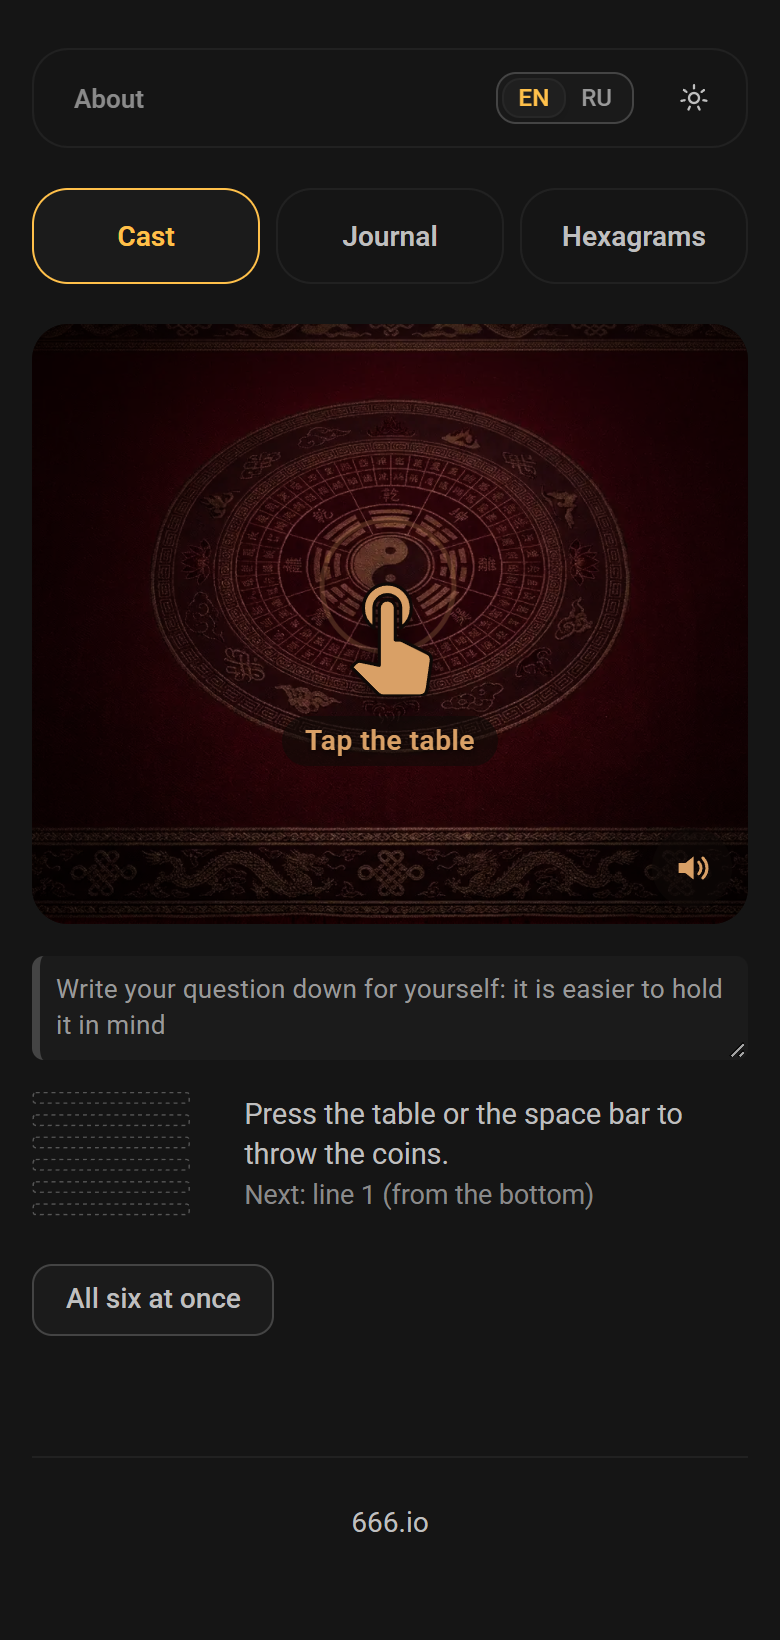
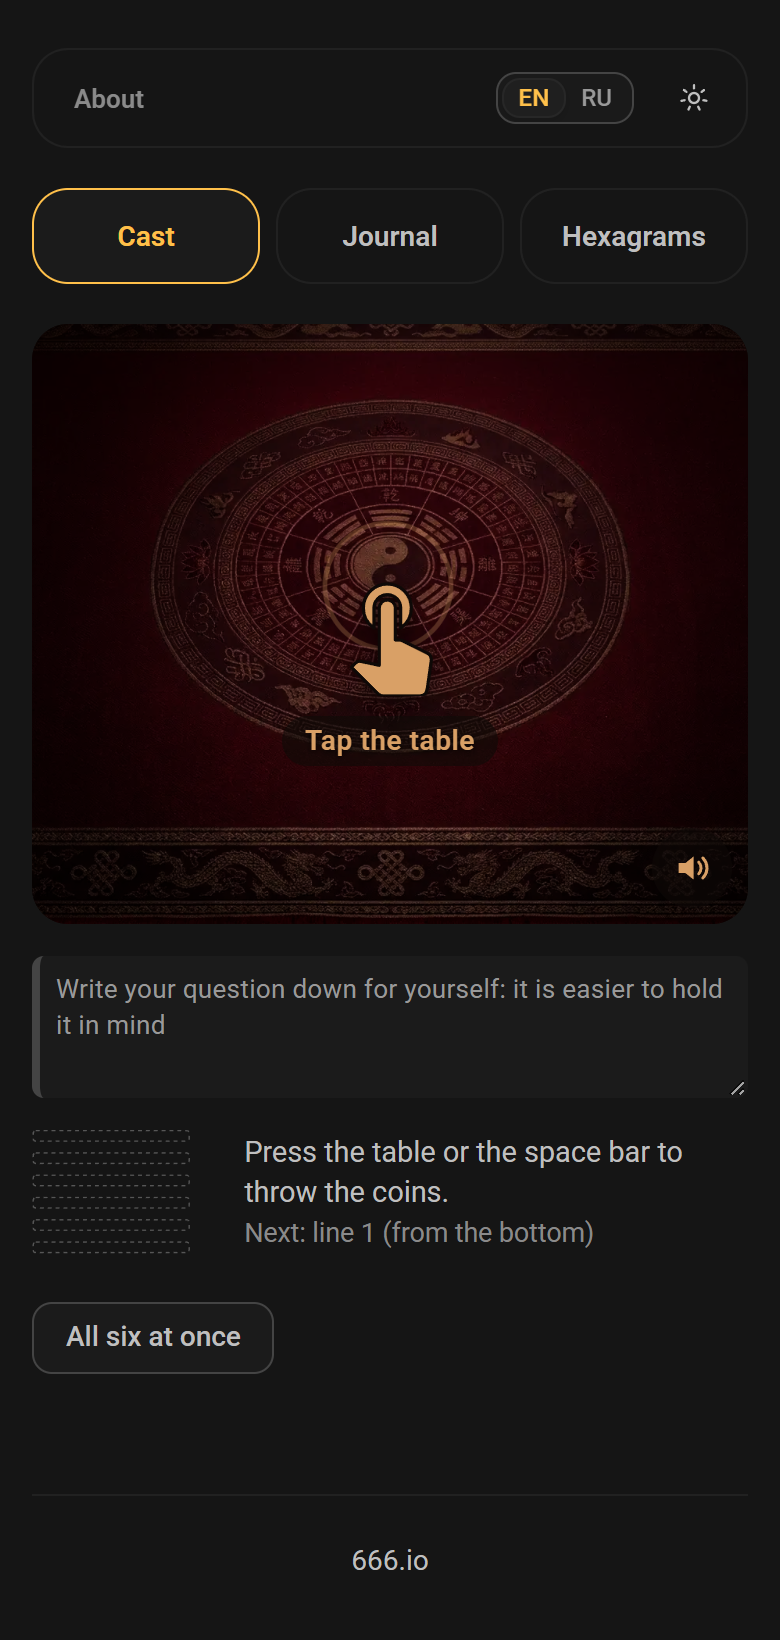
Fix the cast and the table drifting apart; warm up the sound; coins 256 px
A press that came while the table's scene was still loading counted in the
cast but was lost on the table (toss resolved at once without a stage), so
the table later showed five columns, and the glow, which waits for the
sixth throw of the stage, never ran. Now a throw waits for the stage, and
the application tells the stage the number of the throw instead of the
stage counting for itself.

The sounds are fetched and decoded when the table appears (an offline
context needs no press), and the audio is woken by the first press
anywhere on the page, with a silent beat, so nothing loads while the coins
fly. The coin faces are 256 px (128 was too greedy); the question field is
three rows tall, as Firefox and Yandex showed a scrollbar in two.

diff --git a/src/app/sound.ts b/src/app/sound.ts
@@ -4,8 +4,14 @@ import { ref } from 'vue';
 /**
  * The sound of the table: the flip of the coins when they are thrown, and a taiko drum when the golden glow runs over them.
  * Both are short recorded sounds (see THIRD-PARTY-NOTICES.md). The sound is for the table only and never touches the numbers of the cast.
+ *
+ * Everything is warmed up before it is needed, so that nothing is loaded or woken while the coins fly: the files are fetched and decoded when
+ * the table appears (decoding needs no press), and the audio context is woken by the first press anywhere on the page, long before the first throw.
+ *
  * Звук стола: щелчок монет, когда их бросают, и барабан тайко, когда по ним бежит золотое свечение. Оба звука короткие записи
  * (см. THIRD-PARTY-NOTICES.md). Звук нужен только столу и к числам броска отношения не имеет.
+ * Всё прогревается заранее, чтобы ничего не грузилось и не просыпалось, пока монеты летят: файлы грузятся и разбираются, когда появляется стол
+ * (разбору нажатие не нужно), а звуковой контекст будит первое же нажатие где угодно на странице, задолго до первого броска.
  */
 
 const storage = createSavedStorage('hexa-proof.sound');
@@ -16,6 +22,7 @@ export const soundOn = ref(storage.read() !== 'off');
 export function setSound(on: boolean): void {
     soundOn.value = on;
     storage.write(on ? 'on' : 'off');
+    if (on) unlockSound(); // the switch is a press: the audio can be woken now
 }
 
 type Name = 'flip' | 'taiko';
@@ -26,45 +33,67 @@ const URLS: Record<Name, string> = {
 };
 /** How loud each one is, 0…1. / Громкость каждого, от 0 до 1. */
 const VOLUME: Record<Name, number> = { flip: 0.05, taiko: 0.4 };
+const SAMPLE_RATE = 44100;
 
 let context: AudioContext | null = null;
-const fetched = new Map<Name, Promise<ArrayBuffer | null>>();
-const decoded = new Map<Name, Promise<AudioBuffer | null>>();
+const buffers = new Map<Name, AudioBuffer>();
+let preparing = false;
+let listening = false;
 
 /**
- * Starts loading the files, so they are there by the first throw. It needs no press: no audio is created yet.
- * Начинает грузить файлы, чтобы они были к первому броску. Нажатие не нужно: звук ещё не создан.
+ * Fetches and decodes the sounds. An offline context decodes without a press, so this can run as soon as the table appears. A buffer made
+ * by it can be played by any context.
+ * Грузит и разбирает звуки. Офлайн-контекст разбирает без нажатия, так что это можно делать, как только появился стол. Буфер оттуда играет любой контекст.
  */
-export function prefetchSound(): void {
-    for (const name of Object.keys(URLS) as Name[]) {
-        if (fetched.has(name)) continue;
-        fetched.set(
-            name,
-            fetch(URLS[name])
-                .then((response) => response.arrayBuffer())
-                .catch(() => null), // the file did not come: that sound is silent, the rest works
-        );
-    }
+export function prepareSound(): void {
+    listenForFirstPress();
+    if (preparing) return;
+    preparing = true;
+    void (async () => {
+        try {
+            const decoder = new OfflineAudioContext(2, SAMPLE_RATE, SAMPLE_RATE);
+            for (const name of Object.keys(URLS) as Name[]) {
+                try {
+                    const data = await (await fetch(URLS[name])).arrayBuffer();
+                    buffers.set(name, await decoder.decodeAudioData(data));
+                } catch {
+                    // this file did not come: its sound is silent, the other one works
+                }
+            }
+        } catch {
+            // no OfflineAudioContext: the table is silent
+        }
+    })();
+}
+
+/** The first press anywhere on the page wakes the audio, so the first throw finds it awake. / Первое нажатие на странице будит звук. */
+function listenForFirstPress(): void {
+    if (listening || typeof window === 'undefined') return;
+    listening = true;
+    const wake = (): void => {
+        unlockSound();
+        window.removeEventListener('pointerdown', wake, true);
+        window.removeEventListener('keydown', wake, true);
+    };
+    window.addEventListener('pointerdown', wake, { capture: true, passive: true });
+    window.addEventListener('keydown', wake, { capture: true, passive: true });
 }
 
 /**
- * Wakes the audio and decodes the sounds. A browser keeps the sound shut until the person has pressed something, so it is called from the
- * press that throws.
- * Будит звук и разбирает записи. Браузер держит звук выключенным, пока человек ничего не нажал, поэтому зовётся из нажатия, которое бросает.
+ * Wakes the audio. A browser keeps the sound shut until the person has pressed something, so it is called from presses. A silent beat is played
+ * at once: the first real sound of a context is the one that comes late, and it must not be ours.
+ * Будит звук. Браузер держит звук выключенным, пока человек ничего не нажал, поэтому зовётся из нажатий. Сразу играется тихий удар: поздно приходит
+ * именно первый настоящий звук контекста, и это не должен быть наш.
  */
 export function unlockSound(): void {
     if (!soundOn.value) return;
     try {
         if (!context) {
-            const ctx = new AudioContext();
-            context = ctx;
-            prefetchSound();
-            for (const name of Object.keys(URLS) as Name[]) {
-                decoded.set(
-                    name,
-                    (fetched.get(name) ?? Promise.resolve(null)).then((data) => (data ? ctx.decodeAudioData(data) : null)).catch(() => null),
-                );
-            }
+            context = new AudioContext({ sampleRate: SAMPLE_RATE });
+            const silence = context.createBufferSource();
+            silence.buffer = context.createBuffer(1, 1, SAMPLE_RATE);
+            silence.connect(context.destination);
+            silence.start();
         }
         if (context.state === 'suspended') void context.resume();
     } catch {
@@ -74,18 +103,15 @@ export function unlockSound(): void {
 
 function play(name: Name, rate = 1): void {
     const ctx = context;
-    const ready = decoded.get(name);
-    if (!soundOn.value || !ctx || !ready) return;
-    void ready.then((buffer) => {
-        if (!buffer || !soundOn.value || ctx.state !== 'running') return;
-        const source = ctx.createBufferSource();
-        const gain = ctx.createGain();
-        source.buffer = buffer;
-        source.playbackRate.value = rate;
-        gain.gain.value = VOLUME[name];
-        source.connect(gain).connect(ctx.destination);
-        source.start();
-    });
+    const buffer = buffers.get(name);
+    if (!soundOn.value || !ctx || !buffer || ctx.state !== 'running') return;
+    const source = ctx.createBufferSource();
+    const gain = ctx.createGain();
+    source.buffer = buffer;
+    source.playbackRate.value = rate;
+    gain.gain.value = VOLUME[name];
+    source.connect(gain).connect(ctx.destination);
+    source.start();
 }
 
 /**

diff --git a/src/app/components/CoinTable.vue b/src/app/components/CoinTable.vue
@@ -1,7 +1,7 @@
 <script setup lang="ts">
 import { onBeforeUnmount, onMounted, ref } from 'vue';
 import { t } from '../i18n';
-import { playFlip, playTaiko, prefetchSound, setSound, soundOn } from '../sound';
+import { playFlip, playTaiko, prepareSound, setSound, soundOn } from '../sound';
 import type { Coins } from '../../core/cast';
 import type { TableStage } from '../../scene/TableStage';
 
@@ -16,30 +16,46 @@ defineProps<{ hint?: string }>();
 
 const host = ref<HTMLElement | null>(null);
 let stage: TableStage | null = null;
+/**
+ * Resolves with the stage when it stands, or with null when there will be none (no WebGL, or the component is gone). A press that comes while the
+ * stage is still loading waits for it: it must not count in the cast and be lost on the table.
+ * Станет стадией, когда она встанет, или null, если её не будет. Нажатие, пришедшее, пока сцена грузится, ждёт её: оно не должно засчитаться
+ * в броске и пропасть на столе.
+ */
+let settle!: (value: TableStage | null) => void;
+const ready = new Promise<TableStage | null>((resolve) => (settle = resolve));
 
 onMounted(async () => {
-    prefetchSound(); // the sounds come while the table loads
+    prepareSound(); // the sounds are fetched and decoded while the table loads
     try {
         const { TableStage: Stage } = await import('../../scene/TableStage');
-        if (!host.value) return;
+        if (!host.value) return settle(null);
         stage = new Stage(host.value, { onActivate: () => emit('activate'), onGlow: playTaiko });
+        settle(stage);
     } catch {
         // no WebGL (or no 2D canvas): the screen falls back to the flat coins
+        settle(null);
         emit('unavailable');
     }
 });
 
 onBeforeUnmount(() => {
+    settle(null);
     stage?.dispose();
     stage = null;
 });
 
 defineExpose({
-    /** Plays the toss; resolves when the coins lie still. Without a stage it resolves at once. / Разыгрывает бросок; без сцены завершается сразу. */
-    toss: (sides: Coins, instant = false): Promise<void> => {
-        if (!stage) return Promise.resolve();
-        if (!instant) playFlip(stage.speed); // the clink of the landing falls on the landing at the speed of the table
-        return stage.toss(sides, { instant });
+    /**
+     * Plays the toss of the line `index` (0…5); resolves when the coins lie still. It waits for the stage if it is still loading, and resolves
+     * at once when there will be none.
+     * Разыгрывает бросок линии `index` (0…5); завершается, когда монеты улеглись. Ждёт сцену, если она ещё грузится, а когда её не будет, завершается сразу.
+     */
+    toss: async (sides: Coins, instant = false, index?: number): Promise<void> => {
+        const current = await ready;
+        if (!current || current !== stage) return;
+        if (!instant) playFlip(current.speed); // the clink of the landing falls on the landing at the speed of the table
+        return current.toss(sides, { instant, index });
     },
     reset: (): void => stage?.reset(),
 });

diff --git a/src/scene/TableStage.ts b/src/scene/TableStage.ts
@@ -457,13 +457,16 @@ export class TableStage {
     /**
      * Throws the next three coins so that they fall on the given sides: they fall in the middle, then slide aside into a column
      * (the columns go left, right, left, right…). Resolves when the coins stand in their column. After the sixth throw it starts again.
-     * With `instant` the coins are just put where they end up (for a person who asked for less motion).
+     * With `instant` the coins are just put where they end up (for a person who asked for less motion). `index` is the number of the throw, 0…5:
+     * the table follows the application and does not keep a count of its own.
      * Бросает следующие три монеты так, чтобы они легли на заданные стороны: падают посередине, потом сдвигаются в столбик (влево, вправо…).
      * Завершается, когда монеты встали в столбик. После шестого броска начинает заново. С `instant` монеты просто ставятся на место.
      */
-    toss(sides: Coins, options: { instant?: boolean } = {}): Promise<void> {
+    toss(sides: Coins, options: { instant?: boolean; index?: number } = {}): Promise<void> {
         this.finish();
         if (this.throwIndex >= THROWS) this.reset();
+        // the application says which throw this is (0…5): the table must never count for itself, or it can drift away from the cast
+        if (options.index !== undefined) this.throwIndex = Math.min(Math.max(Math.trunc(options.index), 0), THROWS - 1);
         const index = this.throwIndex++;
         const group = this.coins.slice(index * 3, index * 3 + 3);
         this.latest = group;

diff --git a/src/scene/textures.ts b/src/scene/textures.ts
@@ -42,8 +42,8 @@ function texture(element: HTMLCanvasElement, repeat = false): CanvasTexture {
  * Картинка дорисовывается, когда загрузится. Текстура накрывает квадрат вокруг диска, так что знаки встают туда, куда их ставит геометрия.
  */
 export function coinFaceTexture(url: string, side: Coin, onReady?: () => void): CanvasTexture {
-    // The coins are small on the screen: the picture is 128 px and the canvas 256 px, which the eye does not tell from more; the marks are drawn
-    // on the canvas itself, so they stay sharp. / Монеты на экране мелкие: картинка 128 px, холст 256 px, глаз большего не отличит; знаки рисуются на самом холсте и остаются чёткими.
+    // The coins are small on the screen: the picture and the canvas are 256 px, which the eye does not tell from more (128 px was too greedy).
+    // Монеты на экране мелкие: картинка и холст по 256 px, большего глаз не отличит (128 px было жадно).
     const size = 256;
     const [element, g] = canvas(size);
     g.fillStyle = '#4a3a24';

diff --git a/src/app/components/CastScreen.vue b/src/app/components/CastScreen.vue
@@ -45,7 +45,7 @@ async function throwOne(): Promise<void> {
     busy.value = true;
     unlockSound(); // the throw comes from a press: the browser lets the sound start now
     const next = throwNext();
-    if (next) await table.value?.toss(next.coins, reducedMotion());
+    if (next) await table.value?.toss(next.coins, reducedMotion(), throws.value.length - 1);
     revealed.value = throws.value.length;
     busy.value = false;
 }
@@ -108,7 +108,7 @@ const status = computed(() => {
             </div>
 
             <div class="cast__question">
-                <TaoTextarea id="cast-question" v-model="question" :aria-label="t('cast.questionLabel')" :rows="2" :maxlength="300" :placeholder="t('cast.questionPlaceholder')" />
+                <TaoTextarea id="cast-question" v-model="question" :aria-label="t('cast.questionLabel')" :rows="3" :maxlength="300" :placeholder="t('cast.questionPlaceholder')" />
             </div>
 
             <div class="cast__info">
